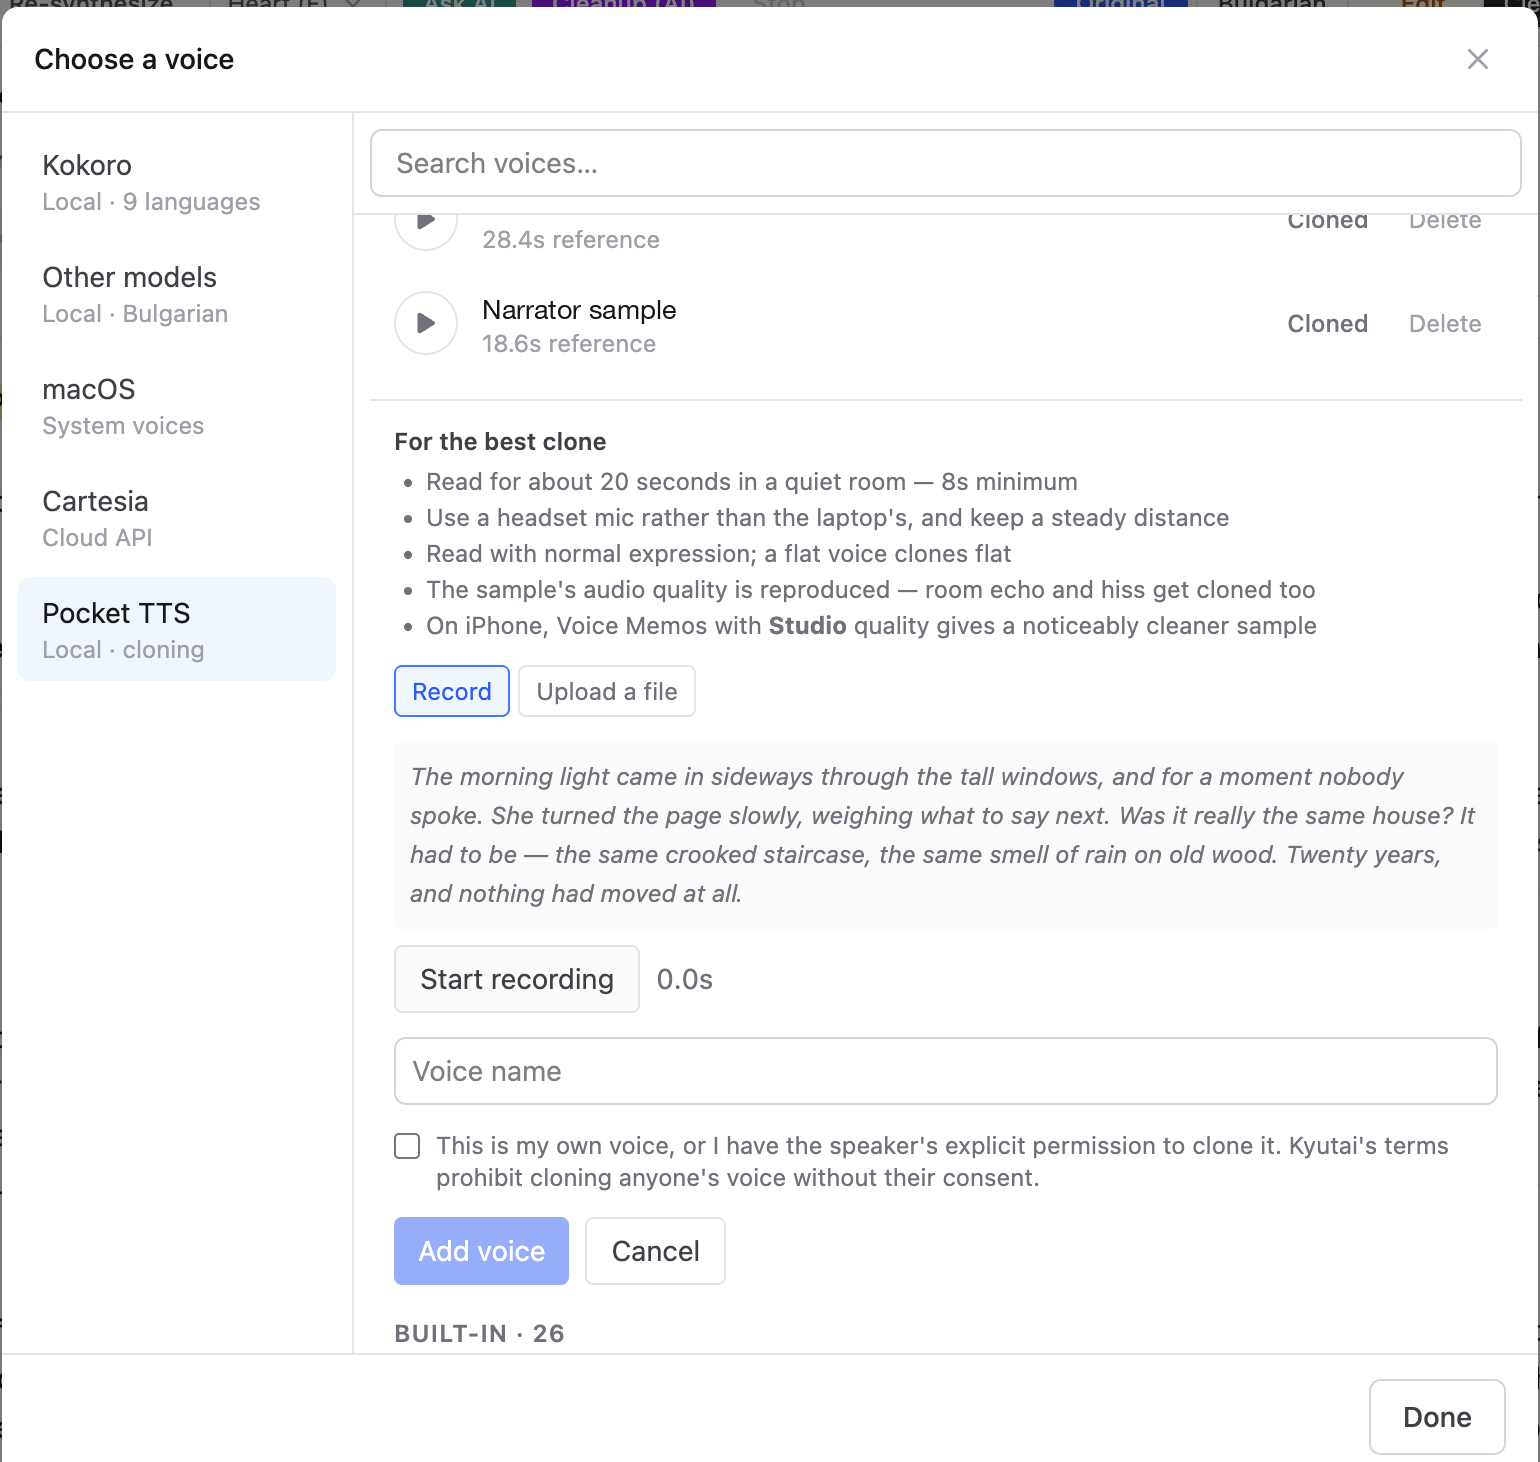
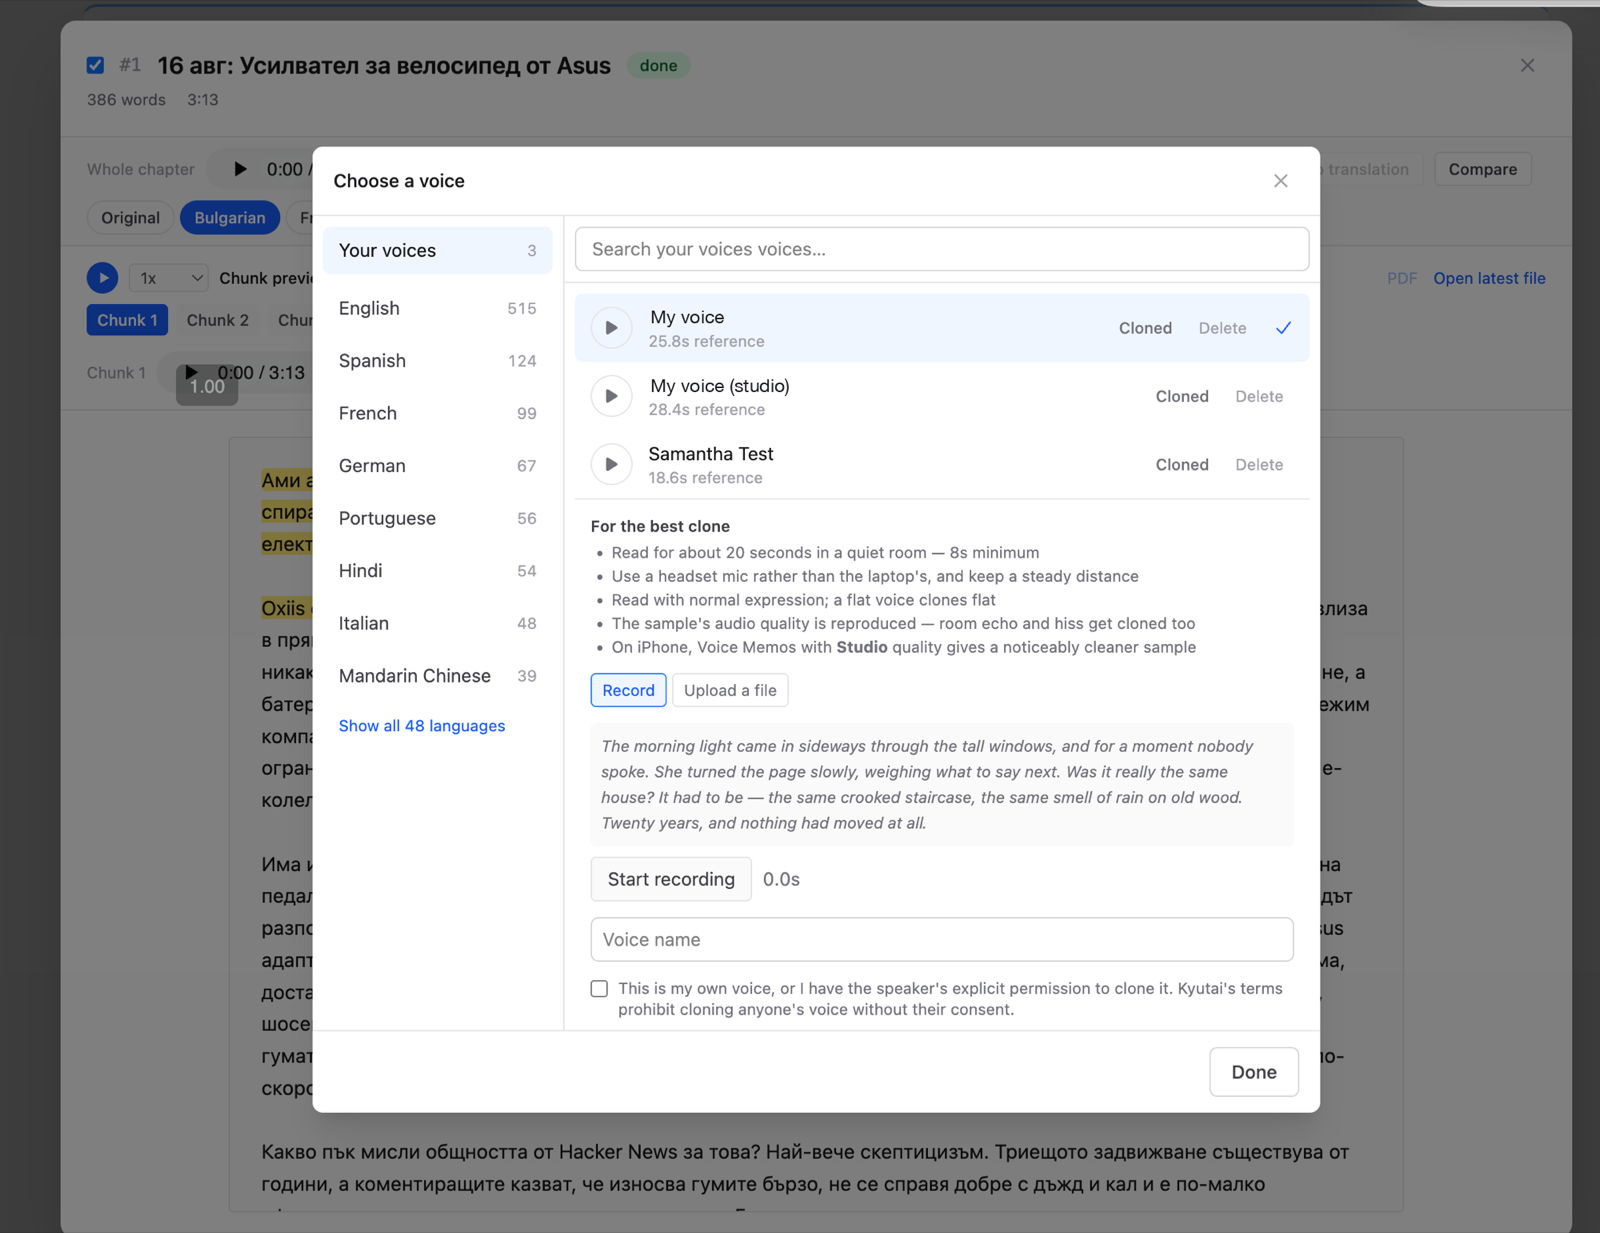
Cloning screenshot matches the picker people actually see
The old shot predates the modal rewrite: it showed a Pocket TTS tab with an
"Add your own voice" entry that no longer exists, so the instructions beside
it named a path a reader could not follow. Same file path, so the README link
and any existing deep link are unchanged.

The new shot also caught "Search your voices voices…" — the placeholder
composed a language name with a trailing "voices" that the cloned-voices
label already carried.

diff --git a/packages/web/src/components/voice-picker/VoiceLibraryModal.tsx b/packages/web/src/components/voice-picker/VoiceLibraryModal.tsx
@@ -265,7 +265,7 @@ export function VoiceLibraryModal({
                 name="voice-search"
                 value={query}
                 onChange={(event) => setQuery(event.target.value)}
-                placeholder={`Search ${language === CLONED ? "your voices" : languageLabel(language)} voices…`}
+                placeholder={language === CLONED ? "Search your voices…" : `Search ${languageLabel(language)} voices…`}
                 aria-label="Search voices"
                 className="w-full rounded-md border border-(--border-input) bg-(--bg-input) px-3 py-1.5 text-sm focus-visible:ring-2 focus-visible:ring-blue-500 focus-visible:outline-none"
                 data-testid="voice-search"

diff --git a/README.md b/README.md
@@ -196,9 +196,9 @@ language of whatever voice is currently selected.
 
 ### Cloning your own voice
 
-Pocket TTS can clone a voice from a short sample. In the voice picker, open **Pocket TTS → Add your own voice**, then either record ~20 seconds in the browser or upload a file (anything ffmpeg can read). The sample is encoded locally into a small voice file and the recording is discarded — it never leaves the machine running pdf2audio.
+Pocket TTS can clone a voice from a short sample. In the voice picker, open **Your voices**, then either record ~20 seconds in the browser or upload a file (anything ffmpeg can read). The sample is encoded locally into a small voice file and the recording is discarded — it never leaves the machine running pdf2audio.
 
-![Adding a cloned voice from the Pocket TTS tab of the voice picker](docs/images/voice-cloning.png)
+![The Your voices tab of the voice picker, listing cloned voices above the recording controls](docs/images/voice-cloning.png)
 
 **Set your expectations accordingly.** Pocket TTS is a 100M-parameter model built to run on a CPU, and a clone inherits that ceiling — it lands somewhere between recognisable and convincing, and it is not as easy to listen to across a whole book as Kokoro's built-in voices. It also reproduces the *recording* faithfully, so room echo and mic hiss get cloned along with the voice. A quiet room and a headset mic help; on iPhone, Voice Memos set to **Studio** quality gives a noticeably cleaner sample. It's a fun extra rather than the voice you'd pick for a long listen.
 
